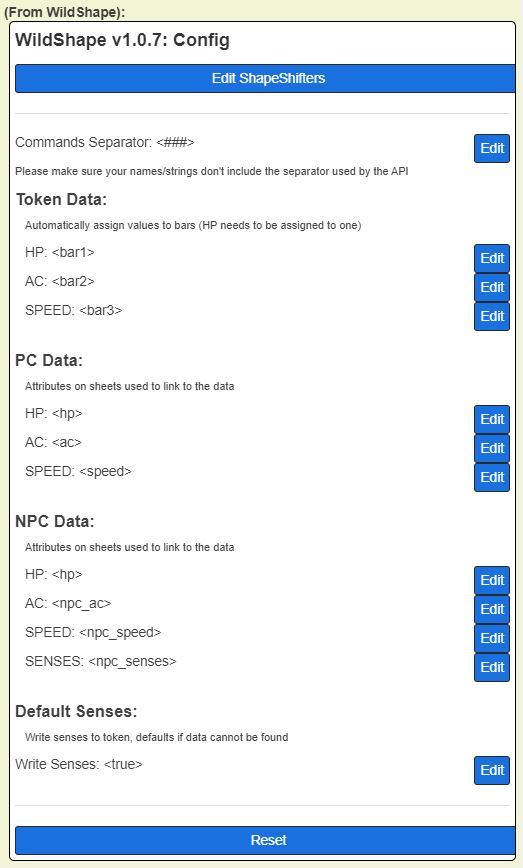
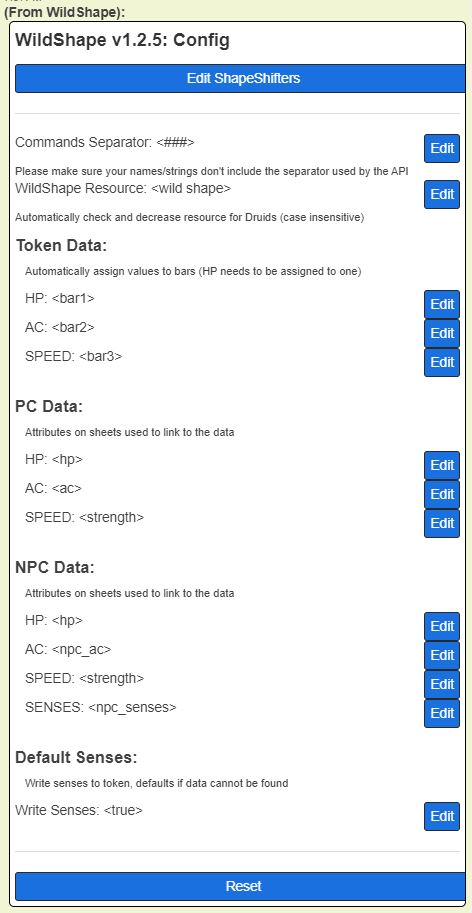
new features: handle wildshape resource for druids, support "non speed" strings on speed; new utils: getResourceAttribute, debug chat flush

Changed region(s): [[0.0, 0.0, 1.0, 0.9954]]

diff --git a/WildShape/WildShape.js b/WildShape/WildShape.js
@@ -4,8 +4,8 @@
 
 const WS_API = {
     NAME : "WildShape",
-    VERSION : "1.2.1",
-    REQUIRED_HELPER_VERSION: "1.1",
+    VERSION : "1.2.5",
+    REQUIRED_HELPER_VERSION: "1.2",
 
     STATENAME : "WILDSHAPE",
     DEBUG : false,
@@ -61,6 +61,8 @@ const WS_API = {
 
     DEFAULT_CONFIG : {
         SEP: "###",              // separator used in commands
+
+        DRUID_WS_RES : "wild shape",
 
         PC_DATA : {
             HP: "hp",
@@ -143,6 +145,8 @@ const WS_API = {
         ISNPC: "isnpc",
         CURRENT_SHAPE: "currshape",
         
+        DRUID_WS_RES: "DRUID_WS_RES",
+
         STATS_CACHE: {
             ROOT: "stats_cache",
             STATS: "stats",
@@ -192,6 +196,7 @@ const WS_API = {
 
     // major changes
     CHANGELOG : {
+        "1.2.5" : "Wild Shape Resource added to config, automatically check and decrease when Druids transform",
         "1.2"   : "automatically add corrected saving throws and proficiencies for druids",
         "1.1"   : "automatically shapeshift tokens to the last shape when copied/dropped from the journal",
         "1.0.7" : "added senses attribute setting in NPC Data",
@@ -434,6 +439,9 @@ class WildShapeMenu extends WildMenu
         let otherSettingsList = [
             this.makeListLabelValue("Commands Separator", this.SEP) + this.makeListButton("Edit", cmdConfigEdit + WS_API.FIELDS.SEP + this.SEP + "?{New Separator}"),
             this.makeListLabel("Please make sure your names/strings don't include the separator used by the API", "font-size: 80%"),
+
+            this.makeListLabelValue("WildShape Resource", config[WS_API.FIELDS.DRUID_WS_RES]) + this.makeListButton("Edit", cmdConfigEdit + WS_API.FIELDS.DRUID_WS_RES + this.SEP + "?{Edit|" + config[WS_API.FIELDS.DRUID_WS_RES] + "}"),
+            this.makeListLabel("Automatically check and decrease resource for Druids (case insensitive)", "font-size: 80%"),
         ];
 
         // token settings
@@ -747,7 +755,7 @@ var WildShape = WildShape || (function() {
             }
             else
             {
-                UTILS.chatErrorToPlayer(shiftData.who, "cannot find attribute [" + attrName + "] on character: " + characterId);
+                UTILS.chatErrorToPlayer(shiftData.who, "cannot find attribute [" + attrName + "] on character: " + shiftData.targetCharacterId);
                 return false;
             }
         }
@@ -834,7 +842,7 @@ var WildShape = WildShape || (function() {
             // target could have proficiency in a stat we don't, default to that proficiency bonus
             let statPb = profData.shapeStatValue - profData.shapeStatMod;
             const isProficient = UTILS.isProficient(profData.druidId, profData.druidStatName + WS_API.SETTINGS.STATS.SUFFIX.PROF);
-            UTILS.debugChat("-- stat " + profData.shapeStatName + ": " + profData.shapeStatValue.toString() + ", npc pb: " + statPb + ", npc mod " + profData.shapeStatMod + ", druid pb: " + (isProficient ? profData.druidPb : 0));
+            UTILS.debugChat("-- stat " + profData.shapeStatName + ": " + profData.shapeStatValue.toString() + ", npc pb: " + statPb + ", npc mod " + profData.shapeStatMod + ", druid pb: " + (isProficient ? profData.druidPb : 0), false);
 
             // check which proficiency bonus we should use
             if (isProficient && profData.druidPb > statPb)
@@ -848,7 +856,7 @@ var WildShape = WildShape || (function() {
             if (newShapeStatValue !== oldShapeStatValue || shapeStatAttr.get("current") == "")
             {
                 shapeStatAttr.set("current", newShapeStatValue);
-                UTILS.debugChat("-- CHANGING -- " + profData.shapeStatName + " from " + oldShapeStatValue + " to: " + newShapeStatValue.toString());
+                UTILS.debugChat("-- CHANGING -- " + profData.shapeStatName + " from " + oldShapeStatValue + " to: " + newShapeStatValue.toString(), false);
 
                 // also set _base value
                 shapeStatAttr = findObjs({_type: "attribute", name: profData.shapeStatName + WS_API.SETTINGS.STATS.SUFFIX.BASE, _characterid: profData.shapeId})[0];
@@ -897,15 +905,13 @@ var WildShape = WildShape || (function() {
         });
 
         // copy proficiencies
-        UTILS.debugChat("copying druid proficiencies");
-        
         let profData = {};
         profData.druidId = druidCharacterId;
         profData.shapeId = targetCharacterId;
 
         let druidPb  = findObjs({_type: "attribute", name: STATS.PROF, _characterid: druidCharacterId})[0];
         profData.druidPb = druidPb ? Number(druidPb.get("current")) : 0;
-        UTILS.debugChat("druid pb: " + profData.druidPb);      
+        UTILS.debugChat("druid pb: " + profData.druidPb, false);
 
         for (let statIndex = 0; statIndex < 6; ++statIndex)
         {
@@ -933,6 +939,8 @@ var WildShape = WildShape || (function() {
             });
         }
 
+        UTILS.debugFlush("copying druid proficiencies");
+
         // npc saving/skills flag
         let npc_attr_flag = findObjs({_type: "attribute", name: "npc_saving_flag", _characterid: targetCharacterId})[0];
         if (npc_attr_flag)
@@ -948,13 +956,38 @@ var WildShape = WildShape || (function() {
     };
 
     async function doShapeShift(shiftData) {
+        const config = state[WS_API.STATENAME][WS_API.DATA_CONFIG];
         const shifterSettings = shiftData.shifter[WS_API.FIELDS.SETTINGS];
 
         let isTargetNpc = true;
         let isTargetDefault = false;
+        let wildShapeResource = null;
 
         if(shiftData.targetShape)
         {
+            // if it's a druid shapeshifting check that we have enough uses of the wildshape resource left
+            if(shifterSettings[WS_API.FIELDS.ISDRUID])
+            {
+                const wsResName = config[WS_API.FIELDS.DRUID_WS_RES];
+                if(wsResName && wsResName.length > 0)
+                {
+                    wildShapeResource = UTILS.getResourceAttribute(shifterSettings[WS_API.FIELDS.ID], wsResName, false);
+                    if (wildShapeResource)
+                    {
+                        if (wildShapeResource.get("current") <= 0)
+                        {
+                            UTILS.chatErrorToPlayer(shiftData.who, "You have NO WildShape usage left for the day! resource name: " + wildShapeResource);
+                            return false;
+                        }
+                    }
+                    else
+                    {
+                        UTILS.chatErrorToPlayer(shiftData.who, "Cannot find wildshape resource = " + wsResName);
+                        return false;
+                    }
+                }
+            }
+
             shiftData.targetCharacterId = shiftData.targetShape[WS_API.FIELDS.ID];
             shiftData.targetCharacter = findObjs({ type: 'character', id: shiftData.targetCharacterId })[0];
             if (!shiftData.targetCharacter)
@@ -992,8 +1025,6 @@ var WildShape = WildShape || (function() {
             UTILS.debugChat(debugStats);
         }
 
-        const config = state[WS_API.STATENAME][WS_API.DATA_CONFIG];
-
         const tokenFields = WS_API.FIELDS.TOKEN_DATA;
 
         if (isTargetNpc)
@@ -1013,7 +1044,7 @@ var WildShape = WildShape || (function() {
             if (targetData.speed && config[tokenFields.ROOT][tokenFields.SPEED] != config[tokenFields.ROOT][tokenFields.EMPTYBAR])
             {
                 shiftData.token.set(config[tokenFields.ROOT][tokenFields.SPEED] + "_link", 'None');
-                shiftData.token.set(config[tokenFields.ROOT][tokenFields.SPEED] + "_value", targetData.speed.current.split(' ')[0]);
+                shiftData.token.set(config[tokenFields.ROOT][tokenFields.SPEED] + "_value", _.isString(targetData.speed.current) && targetData.speed.current.indexOf(' ') > 0 ? targetData.speed.current.split(' ')[0] : targetData.speed.current);
             }
 
             // set HP last in case we need to override another value because of wrong data
@@ -1110,7 +1141,15 @@ var WildShape = WildShape || (function() {
         }
 
         shifterSettings[WS_API.FIELDS.CURRENT_SHAPE] = shiftData.targetShapeName;
-        
+
+        // update wildshape resource
+        if (wildShapeResource)
+        {
+            let wsCurrent = wildShapeResource.get("current") - 1;
+            wildShapeResource.set("current",  wsCurrent);
+            UTILS.chatToPlayer(shiftData.who, config[WS_API.FIELDS.DRUID_WS_RES] + " left: " + wsCurrent + " / " + wildShapeResource.get("max"));
+        }
+
         return true;
     }
 
@@ -1675,6 +1714,11 @@ var WildShape = WildShape || (function() {
             }
             break;
 
+            case WS_API.FIELDS.DRUID_WS_RES:
+            {
+                config[WS_API.FIELDS.DRUID_WS_RES] = args.shift();
+            }
+            break;
         }
 
         MENU.showConfigMenu();

diff --git a/WildHelpers.js b/WildHelpers.js
@@ -3,13 +3,26 @@
 class WildUtils {
     constructor(apiName, isDebug = false) {
         this.APINAME = apiName || "API";
-        this.VERSION = "1.1";
+        this.VERSION = "1.2";
         this.DEBUG = isDebug;
+        this.DEBUG_CACHE = "";
     }
 
-    debugChat(msg) {
+    debugFlush(msg="") {
         if (this.DEBUG)
-            sendChat(this.APINAME, "/w gm " + msg, null, {noarchive:true});
+        {
+            sendChat(this.APINAME, "/w gm " + msg + ": " + this.DEBUG_CACHE, null, {noarchive:true});
+            this.DEBUG_CACHE = "";
+        }
+    }
+
+    debugChat(msg, flush = true) {        
+        if (this.DEBUG)
+        {
+            this.DEBUG_CACHE += "<br>" + msg;
+            if (flush)
+                this.debugFlush();
+        }
     }
 
     chat(msg, callback = null, settings = {noarchive:true}) {
@@ -82,6 +95,44 @@ class WildUtils {
         });
 
         return ordered;
+    }
+
+    getResourceAttribute(charId, name, caseSensitive) {
+        const resRegEx = new RegExp(/^repeating_resource_\-(\w+)_resource_(left|right)(_name)*$/);
+        const nameRegEx = new RegExp('^' + name + '$', caseSensitive ? '' : 'i');
+        let attrId = null;
+
+        name = name.toLowerCase();
+        let attrs = _.chain(findObjs({type:'attribute', characterid:charId}))
+            .map((a) =>
+                {
+                    let o = {attr: a, match: a.get('name').match(resRegEx)};
+                    return o;
+                })
+            .filter((o) => o.match)
+            .filter((o) => 
+                {
+                    const matchesName = o.match[3] ? o.attr.get("current").match(nameRegEx) : false;
+                    if (!attrId && matchesName)
+                    {
+                        attrId = { id : o.match[1], pos : o.match[2] };
+                    }
+                    return !o.match[3];
+                })
+            .value();
+
+        if (attrId)
+        {
+            for (let i = attrs.length - 1; i >= 0; --i)
+            { 
+                if (attrs[i].match[1] == attrId.id && attrs[i].match[2] == attrId.pos)
+                {
+                    return attrs[i].attr; 
+                }
+            }
+        }
+
+        return null;
     }
 
     setAttribute(characterId, attrName, attrCurrent, createAttr = false, attrMax = null) {
